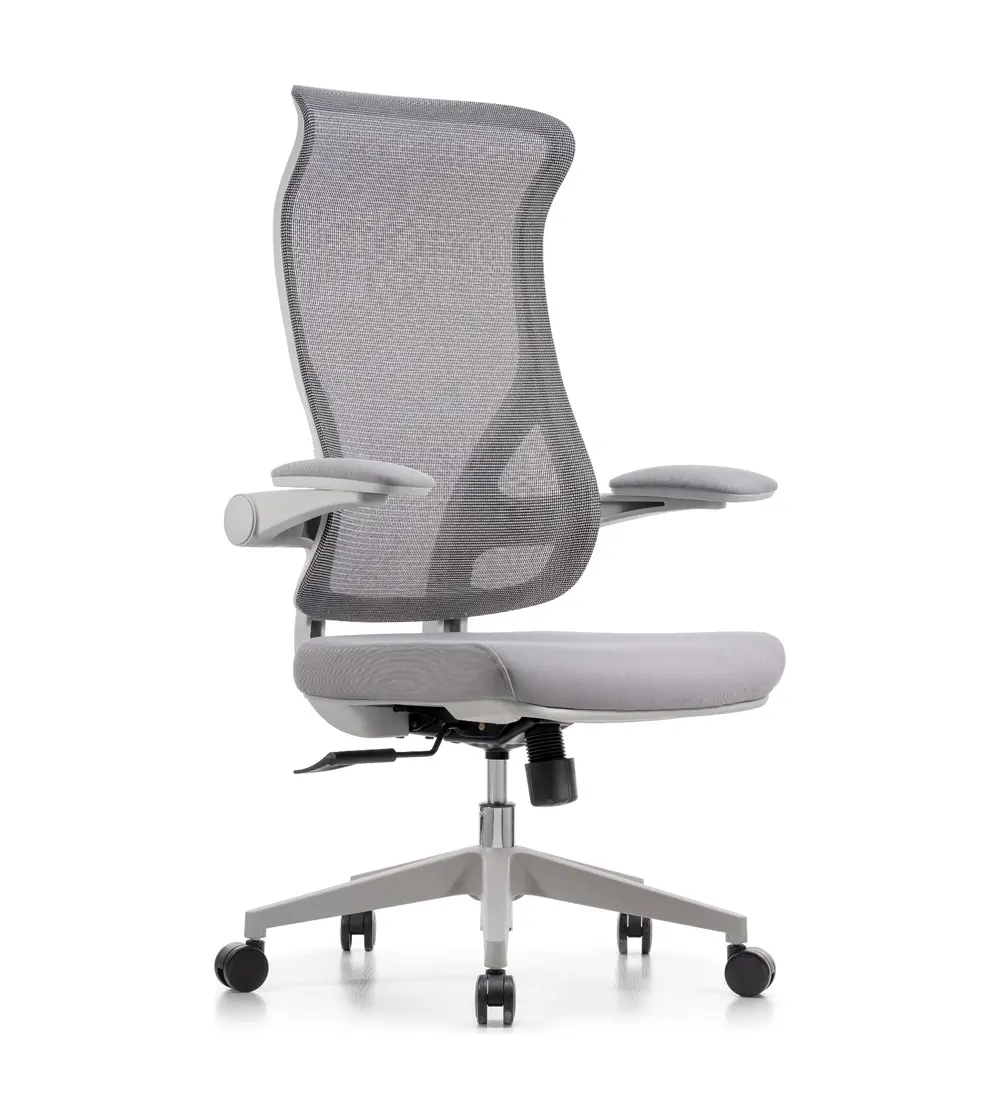
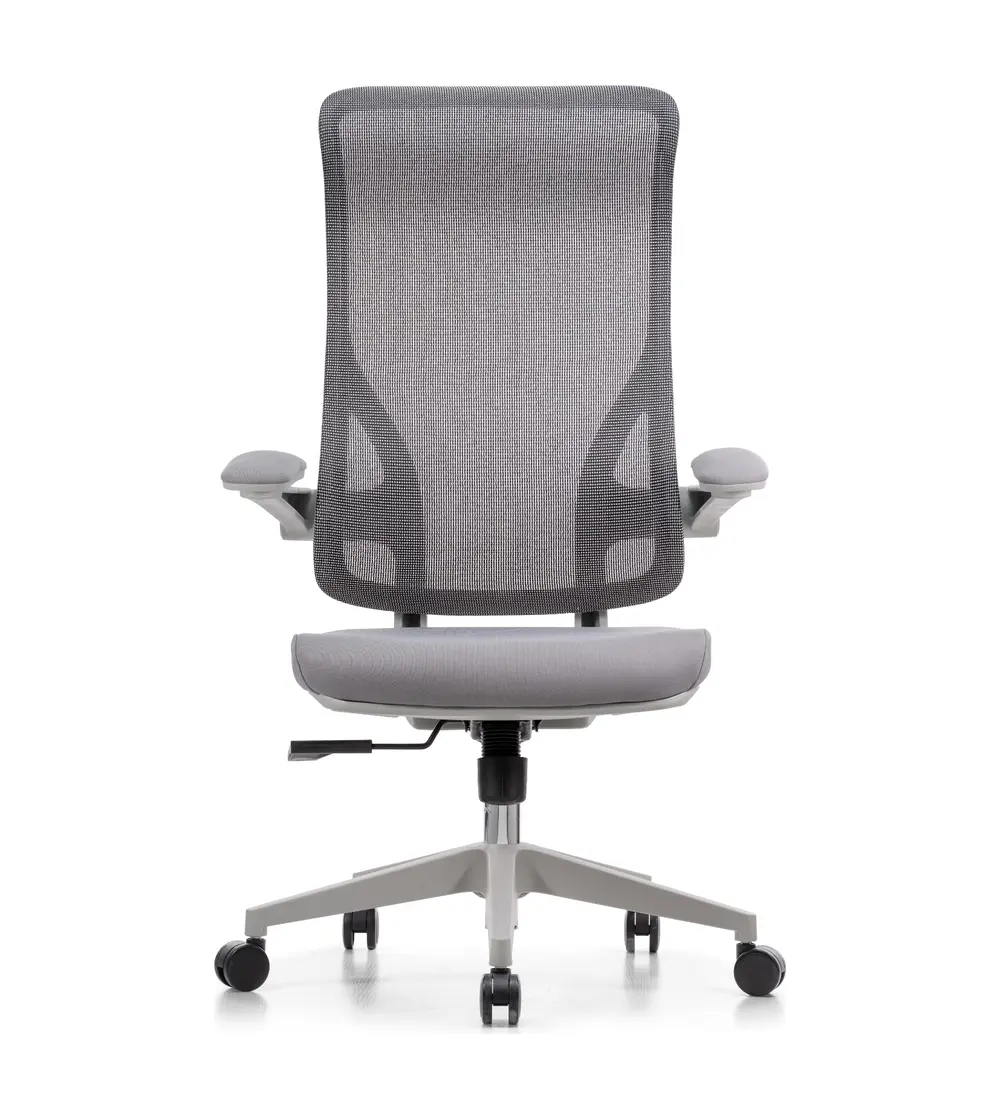
Add M-98A-3 product detail page

Changed region(s): [[0.217, 0.0625, 0.806, 0.9375], [0.248, 0.7812, 0.403, 0.875], [0.217, 0.8438, 0.248, 0.875]]

diff --git a/products/m-98a-3-high-back-mesh-task-chair-with-flip-up-arms.html b/products/m-98a-3-high-back-mesh-task-chair-with-flip-up-arms.html
@@ -1,0 +1,199 @@
+<!doctype html>
+<html lang="en">
+<head>
+  <meta charset="utf-8">
+  <meta name="viewport" content="width=device-width, initial-scale=1">
+  <title>M-98A-3 High-Back Mesh Task Chair | HUANGSI</title>
+  <meta name="description" content="Explore the HUANGSI M-98A-3 mesh task chair with integrated PP+GF back frame, flip-up armrests, resilient foam seat and upright-position lock.">
+  <link rel="canonical" href="https://huangsifurniture.com/products/m-98a-3-high-back-mesh-task-chair-with-flip-up-arms">
+  <meta property="og:type" content="product">
+  <meta property="og:site_name" content="HUANGSI">
+  <meta property="og:title" content="M-98A-3 High-Back Mesh Task Chair | HUANGSI">
+  <meta property="og:description" content="Six complete M-98A-3 views with integrated PP+GF back frame, nylon technical mesh, flip-up armrests and resilient foam seat.">
+  <meta property="og:url" content="https://huangsifurniture.com/products/m-98a-3-high-back-mesh-task-chair-with-flip-up-arms">
+  <meta property="og:image" content="https://huangsifurniture.com/assets/images/m-98a-3-chair/m-98a-3-front.webp">
+  <meta name="twitter:card" content="summary_large_image">
+  <link rel="preload" as="image" href="/assets/images/m-98a-3-chair/m-98a-3-front.webp" fetchpriority="high">
+  <link rel="icon" href="/favicon.svg" type="image/svg+xml">
+  <link rel="stylesheet" href="/assets/css/styles.css">
+  <link rel="stylesheet" href="/assets/css/m15-chair-detail.css">
+  <link rel="stylesheet" href="/assets/css/m-98a-3-chair-detail.css">
+  <script defer src="/assets/js/main.js"></script>
+  <script defer src="/assets/js/m15-chair-detail.js"></script>
+  <script type="application/ld+json">
+  {
+    "@context":"https://schema.org",
+    "@type":"Product",
+    "name":"M-98A-3 High-Back Mesh Task Chair with Flip-Up Arms",
+    "sku":"M-98A-3",
+    "description":"A commercial high-back mesh task chair with one-piece PP+GF back frame, integrated headrest section, flip-up armrests, high-resilience foam seat and upright-position locking mechanism.",
+    "brand":{"@type":"Brand","name":"HUANGSI"},
+    "manufacturer":{"@type":"Organization","name":"Foshan Huangsi Furniture Co., Ltd."},
+    "category":"Mesh Office Chairs",
+    "color":"Gray",
+    "url":"https://huangsifurniture.com/products/m-98a-3-high-back-mesh-task-chair-with-flip-up-arms",
+    "image":[
+      "https://huangsifurniture.com/assets/images/m-98a-3-chair/m-98a-3-front.webp",
+      "https://huangsifurniture.com/assets/images/m-98a-3-chair/m-98a-3-side.webp",
+      "https://huangsifurniture.com/assets/images/m-98a-3-chair/m-98a-3-rear-angle.webp",
+      "https://huangsifurniture.com/assets/images/m-98a-3-chair/m-98a-3-rear.webp",
+      "https://huangsifurniture.com/assets/images/m-98a-3-chair/m-98a-3-armrest-detail.webp",
+      "https://huangsifurniture.com/assets/images/m-98a-3-chair/m-98a-3-loop-arm-side.webp"
+    ],
+    "additionalProperty":[
+      {"@type":"PropertyValue","name":"Backrest","value":"One-piece injection-molded PP+GF frame with lumbar-contoured profile, fire-retardant material specification and premium nylon technical mesh"},
+      {"@type":"PropertyValue","name":"Headrest","value":"Integrated headrest section molded from new PP"},
+      {"@type":"PropertyValue","name":"Armrests","value":"Premium flip-up armrests with supportive pads"},
+      {"@type":"PropertyValue","name":"Seat","value":"High-density high-resilience foam over 12 mm environmentally preferable multilayer plywood"},
+      {"@type":"PropertyValue","name":"Seat shell","value":"PP seat underside shell"},
+      {"@type":"PropertyValue","name":"Mechanism","value":"Upright-position locking mechanism"},
+      {"@type":"PropertyValue","name":"Gas lift","value":"Safety gas lift"},
+      {"@type":"PropertyValue","name":"Base","value":"Ø320 mm nylon five-star base; supplier static-load tested above 1,136 kg for two minutes"},
+      {"@type":"PropertyValue","name":"Casters","value":"Ø50 mm PU nylon casters"}
+    ]
+  }
+  </script>
+  <script type="application/ld+json">
+  {
+    "@context":"https://schema.org",
+    "@type":"BreadcrumbList",
+    "itemListElement":[
+      {"@type":"ListItem","position":1,"name":"Home","item":"https://huangsifurniture.com/"},
+      {"@type":"ListItem","position":2,"name":"Mesh Office Chairs","item":"https://huangsifurniture.com/products/mesh-office-chairs"},
+      {"@type":"ListItem","position":3,"name":"M-98A-3 High-Back Mesh Task Chair with Flip-Up Arms","item":"https://huangsifurniture.com/products/m-98a-3-high-back-mesh-task-chair-with-flip-up-arms"}
+    ]
+  }
+  </script>
+</head>
+<body class="m15-page m98a3-page">
+  <div class="topbar">
+    <div class="container">
+      <span>Factory supplier for bulk office furniture projects</span>
+      <span>OEM / ODM · Commercial Projects · Global Export · RFQ</span>
+    </div>
+  </div>
+
+  <header class="site-header">
+    <div class="container nav">
+      <a class="brand" href="/" aria-label="HUANGSI home"><img src="/assets/images/logo-huangsi.png" width="1105" height="170" alt="HUANGSI logo"></a>
+      <button class="mobile-toggle" type="button" aria-label="Open navigation" aria-controls="primary-navigation" aria-expanded="false">☰</button>
+      <nav class="nav-links" id="primary-navigation" aria-label="Primary navigation">
+        <a href="/commercial-office-furniture-manufacturer">Office Furniture</a>
+        <a href="/products/office-workstation">Workstations</a>
+        <a href="/products/mesh-office-chairs" aria-current="page">Office Chairs</a>
+        <a href="/products/executive-office-desk">Office Desks</a>
+        <a href="/applications/reception-area-furniture">Reception</a>
+        <a href="/oem-manufacturing">OEM</a>
+        <a href="/catalog">Catalog</a>
+        <a class="btn" href="/contact?product=M-98A-3">Request Quote</a>
+      </nav>
+    </div>
+  </header>
+
+  <main>
+    <section class="m15-product" id="images">
+      <nav class="m15-breadcrumbs" aria-label="Breadcrumb">
+        <a href="/">Home</a><span>/</span><a href="/products/mesh-office-chairs">Mesh Office Chairs</a><span>/</span><span>M-98A-3</span>
+      </nav>
+      <div class="m15-product-grid">
+        <div class="m15-product-copy">
+          <span class="m15-eyebrow">Mesh Office Chairs</span>
+          <h1>M-98A-3 High-Back Mesh Task Chair with Flip-Up Arms</h1>
+          <p class="m15-byline">by HUANGSI</p>
+          <p class="m15-intro">A space-efficient mesh task chair with an integrated PP+GF back frame, supportive lumbar curve, flip-up armrests and a high-resilience foam seat.</p>
+          <div class="m98a3-configurations" aria-label="M-98A-3 key configurations">
+            <span>PP+GF frame</span><span>Integrated headrest</span><span>Flip-up arms</span><span>Foam seat</span><span>Upright lock</span>
+          </div>
+          <div class="m15-actions">
+            <a class="m15-button m15-button--primary" href="/contact?product=M-98A-3%20High-Back%20Mesh%20Task%20Chair%20with%20Flip-Up%20Arms">Request project quote</a>
+            <a class="m15-button" href="#specifications">View specifications</a>
+          </div>
+          <p class="m15-note">Images show reference configurations. Final color, arm style, documentation and packing are confirmed with the quotation and approved sample.</p>
+        </div>
+        <div class="m15-gallery" data-m15-gallery aria-label="M-98A-3 chair product image gallery">
+          <div class="m15-track" data-gallery-track tabindex="0" aria-live="polite">
+            <figure class="m15-slide" data-gallery-slide><img src="/assets/images/m-98a-3-chair/m-98a-3-front.webp" width="1400" height="900" alt="M-98A-3 gray high-back mesh task chair, front view" fetchpriority="high"></figure>
+            <figure class="m15-slide" data-gallery-slide><img src="/assets/images/m-98a-3-chair/m-98a-3-side.webp" width="1400" height="900" alt="M-98A-3 gray high-back mesh task chair, side view" loading="lazy"></figure>
+            <figure class="m15-slide" data-gallery-slide><img src="/assets/images/m-98a-3-chair/m-98a-3-rear-angle.webp" width="1400" height="900" alt="M-98A-3 gray high-back mesh task chair, rear three-quarter view" loading="lazy"></figure>
+            <figure class="m15-slide" data-gallery-slide><img src="/assets/images/m-98a-3-chair/m-98a-3-rear.webp" width="1400" height="900" alt="M-98A-3 gray high-back mesh task chair, rear view" loading="lazy"></figure>
+            <figure class="m15-slide" data-gallery-slide><img src="/assets/images/m-98a-3-chair/m-98a-3-armrest-detail.webp" width="1400" height="900" alt="M-98A-3 flip-up armrest and seat detail" loading="lazy"></figure>
+            <figure class="m15-slide" data-gallery-slide><img src="/assets/images/m-98a-3-chair/m-98a-3-loop-arm-side.webp" width="1400" height="900" alt="M-98A-3 gray high-back mesh chair with loop arm configuration, side view" loading="lazy"></figure>
+          </div>
+          <div class="m15-gallery-controls">
+            <div class="m15-gallery-arrows">
+              <button type="button" data-gallery-prev aria-label="Previous product image">←</button>
+              <button type="button" data-gallery-next aria-label="Next product image">→</button>
+            </div>
+            <span class="m15-count"><b data-gallery-current>01</b> / <span>06</span></span>
+            <div class="m15-dots" aria-label="Choose product image">
+              <button type="button" data-gallery-dot="0" aria-label="Show image 1" aria-current="true"></button>
+              <button type="button" data-gallery-dot="1" aria-label="Show image 2"></button>
+              <button type="button" data-gallery-dot="2" aria-label="Show image 3"></button>
+              <button type="button" data-gallery-dot="3" aria-label="Show image 4"></button>
+              <button type="button" data-gallery-dot="4" aria-label="Show image 5"></button>
+              <button type="button" data-gallery-dot="5" aria-label="Show image 6"></button>
+            </div>
+          </div>
+          <div class="m15-thumbnails" aria-label="Product image thumbnails">
+            <button type="button" data-gallery-thumb="0" aria-current="true"><img src="/assets/images/m-98a-3-chair/m-98a-3-front.webp" width="1400" height="900" alt="M-98A-3 front thumbnail"></button>
+            <button type="button" data-gallery-thumb="1"><img src="/assets/images/m-98a-3-chair/m-98a-3-side.webp" width="1400" height="900" alt="M-98A-3 side thumbnail"></button>
+            <button type="button" data-gallery-thumb="2"><img src="/assets/images/m-98a-3-chair/m-98a-3-rear-angle.webp" width="1400" height="900" alt="M-98A-3 rear angle thumbnail"></button>
+            <button type="button" data-gallery-thumb="3"><img src="/assets/images/m-98a-3-chair/m-98a-3-rear.webp" width="1400" height="900" alt="M-98A-3 rear thumbnail"></button>
+            <button type="button" data-gallery-thumb="4"><img src="/assets/images/m-98a-3-chair/m-98a-3-armrest-detail.webp" width="1400" height="900" alt="M-98A-3 armrest detail thumbnail"></button>
+            <button type="button" data-gallery-thumb="5"><img src="/assets/images/m-98a-3-chair/m-98a-3-loop-arm-side.webp" width="1400" height="900" alt="M-98A-3 loop arm side thumbnail"></button>
+          </div>
+        </div>
+      </div>
+    </section>
+    <nav class="m15-anchor-nav" aria-label="Product page sections">
+      <a href="#images">Images</a><a href="#specifications">Specifications</a><a href="#materials">Materials</a><a href="/contact?product=M-98A-3">Inquiry</a>
+    </nav>
+    <section class="m15-overview" id="materials">
+      <div class="m15-content">
+        <div><span class="m15-eyebrow">Integrated high-back structure</span><h2>Space-efficient support for everyday task seating.</h2></div>
+        <p>The M-98A-3 combines a one-piece reinforced back frame and breathable nylon mesh with flip-up armrests that clear the chair for compact storage under work surfaces.</p>
+      </div>
+      <div class="m15-feature-grid">
+        <article><span>01</span><h3>Contoured mesh back</h3><p>The high-back profile follows the lumbar curve while technical mesh supports ventilation.</p></article>
+        <article><span>02</span><h3>Flip-up armrests</h3><p>Supportive arm pads rotate upward to reduce the chair's storage footprint.</p></article>
+        <article><span>03</span><h3>Resilient foam seat</h3><p>High-density foam and a 12 mm multilayer plywood support provide a stable sitting surface.</p></article>
+      </div>
+    </section>
+    <section class="m15-specs" id="specifications">
+      <div class="m15-specs-heading"><span class="m15-eyebrow">M-98A-3 specification</span><h2>Commercial construction data.</h2><p>Material and test values are supplier-provided. Final configuration and documentation are confirmed with the quotation and approved sample.</p></div>
+      <div class="m15-spec-table" role="table" aria-label="M-98A-3 chair specifications">
+        <div role="row"><b role="cell">Back frame</b><span role="cell">One-piece injection-molded PP+GF structure with integrated lumbar-contoured profile</span></div>
+        <div role="row"><b role="cell">Material specification</b><span role="cell">New imported PP+GF; environmentally preferable and fire-retardant supplier specification</span></div>
+        <div role="row"><b role="cell">Back upholstery</b><span role="cell">Premium nylon technical mesh</span></div>
+        <div role="row"><b role="cell">Headrest</b><span role="cell">Integrated headrest section molded from new imported PP</span></div>
+        <div role="row"><b role="cell">Armrests</b><span role="cell">Premium padded flip-up armrests</span></div>
+        <div role="row"><b role="cell">Seat cushion</b><span role="cell">High-density high-resilience foam</span></div>
+        <div role="row"><b role="cell">Seat support</b><span role="cell">12 mm environmentally preferable multilayer plywood with PP underside shell</span></div>
+        <div role="row"><b role="cell">Mechanism</b><span role="cell">Upright-position locking mechanism</span></div>
+        <div role="row"><b role="cell">Gas lift</b><span role="cell">Premium safety gas lift</span></div>
+        <div role="row"><b role="cell">Base</b><span role="cell">Ø320 mm nylon five-star base</span></div>
+        <div role="row"><b role="cell">Base testing</b><span role="cell">Supplier static-load tested above 1,136 kg for two minutes</span></div>
+        <div role="row"><b role="cell">Casters</b><span role="cell">Ø50 mm PU nylon casters</span></div>
+      </div>
+    </section>
+    <section class="m15-cta">
+      <div><span class="m15-eyebrow">Commercial project supply</span><h2>Specify M-98A-3 for flexible task seating projects.</h2></div>
+      <div><p>Send the quantity, destination, arm configuration and project timeline for configuration review and export quotation.</p><a class="m15-button m15-button--light" href="/contact?product=M-98A-3%20High-Back%20Mesh%20Task%20Chair%20with%20Flip-Up%20Arms">Request M-98A-3 details</a></div>
+    </section>
+  </main>
+
+  <footer class="footer">
+    <div class="container footer-grid">
+      <div><a class="brand" href="/"><img src="/assets/images/logo-huangsi.png" width="1105" height="170" alt="HUANGSI logo"></a><p>Commercial office furniture manufacturer for workstations, office chairs, desks, storage, acoustic solutions and OEM projects.</p><div class="badge-row"><span class="badge">Bulk Export</span><span class="badge">OEM / ODM</span><span class="badge">Project Supply</span></div></div>
+      <div><h4>Products</h4><a href="/products/office-workstation">Office Workstations</a><a href="/products/mesh-office-chairs">Mesh Office Chairs</a><a href="/products/leather-office-chair">Leather Office Chairs</a><a href="/products/executive-office-desk">Executive Desks</a></div>
+      <div><h4>Solutions</h4><a href="/applications/corporate-office-projects">Corporate Offices</a><a href="/applications/co-working-space-furniture">Co-working Spaces</a><a href="/products/acoustic-wall-panels">Acoustic Panels</a><a href="/oem-manufacturing">OEM Manufacturing</a></div>
+      <div><h4>Contact</h4><a href="mailto:huangsifurniture@gmail.com">huangsifurniture@gmail.com</a><a href="tel:+8613928602558">+8613928602558</a><a href="/contact">Send RFQ</a><a href="/catalog">Request Catalog</a></div>
+    </div>
+    <div class="container footer-bottom"><span>© 2026 Foshan Huangsi Furniture Co., Ltd. All rights reserved.</span><span class="footer-legal"><a href="/privacy">Privacy</a> · <a href="/terms">Terms</a> · <a href="/sitemap.xml">Sitemap</a></span></div>
+  </footer>
+</body>
+</html>
+
+
+
+

diff --git a/products/mesh-office-chairs.html b/products/mesh-office-chairs.html
@@ -133,10 +133,10 @@
             <div class="mesh-chair-card__media"><span class="mesh-chair-card__tag">CUSTOMIZE</span><img src="/assets/images/mesh-chair-collection/imgv-6752.webp" width="1000" height="1120" alt="DJ-02 orange gaming-inspired dual-back ergonomic office chair" loading="lazy"></div>
             <div class="mesh-chair-card__body"><span class="mesh-chair-card__meta">HUANGSI · DJ-02</span><h2>DJ-02 Gaming-Inspired Dual-Back Ergonomic Chair</h2><span class="mesh-chair-card__link">View product <span>→</span></span></div>
           </a>
-          <article class="mesh-chair-card" data-name="M22" data-order="13">
-            <div class="mesh-chair-card__media"><span class="mesh-chair-card__tag">CUSTOMIZE</span><img src="/assets/images/mesh-chair-collection/m22.webp" width="1000" height="1120" alt="M22 gray lightweight mesh task chair" loading="lazy"></div>
-            <div class="mesh-chair-card__body"><span class="mesh-chair-card__meta">HUANGSI · M22</span><h2>M22 Lightweight Mesh Task Chair</h2><a class="mesh-chair-card__link" href="/contact?product=M22">Request details <span>→</span></a></div>
-          </article>
+          <a class="mesh-chair-card mesh-chair-card--link" data-name="M-98A-3" data-order="13" href="/products/m-98a-3-high-back-mesh-task-chair-with-flip-up-arms" aria-label="View M-98A-3 High-Back Mesh Task Chair details">
+            <div class="mesh-chair-card__media"><span class="mesh-chair-card__tag">CUSTOMIZE</span><img src="/assets/images/mesh-chair-collection/m22.webp" width="1000" height="1120" alt="M-98A-3 gray high-back mesh task chair with flip-up arms" loading="lazy"></div>
+            <div class="mesh-chair-card__body"><span class="mesh-chair-card__meta">HUANGSI · M-98A-3</span><h2>M-98A-3 High-Back Mesh Task Chair with Flip-Up Arms</h2><span class="mesh-chair-card__link">View product <span>→</span></span></div>
+          </a>
           <article class="mesh-chair-card" data-name="M88" data-order="14">
             <div class="mesh-chair-card__media"><span class="mesh-chair-card__tag">CUSTOMIZE</span><img src="/assets/images/mesh-chair-collection/m88.webp" width="1000" height="1120" alt="M88 olive green office task chair" loading="lazy"></div>
             <div class="mesh-chair-card__body"><span class="mesh-chair-card__meta">HUANGSI · M88</span><h2>M88 Olive Task Chair</h2><a class="mesh-chair-card__link" href="/contact?product=M88">Request details <span>→</span></a></div>

diff --git a/assets/css/m-98a-3-chair-detail.css b/assets/css/m-98a-3-chair-detail.css
@@ -1,0 +1,32 @@
+.m98a3-page .m15-thumbnails {
+  grid-template-columns: repeat(6, minmax(72px, 1fr));
+  overflow-x: auto;
+  overscroll-behavior-x: contain;
+  scrollbar-color: #aeb7bc #edf0f1;
+  scrollbar-width: thin;
+}
+
+.m98a3-page .m15-product-copy h1 {
+  font-size: clamp(34px, 2.8vw, 50px);
+}
+
+.m98a3-configurations {
+  display: flex;
+  flex-wrap: wrap;
+  gap: 8px;
+  margin-top: 28px;
+}
+
+.m98a3-configurations span {
+  padding: 8px 11px;
+  border: 1px solid #cfd5d8;
+  border-radius: 999px;
+  color: #536068;
+  font-size: 11px;
+}
+
+@media (max-width: 520px) {
+  .m98a3-page .m15-thumbnails {
+    grid-template-columns: repeat(6, 72px);
+  }
+}
